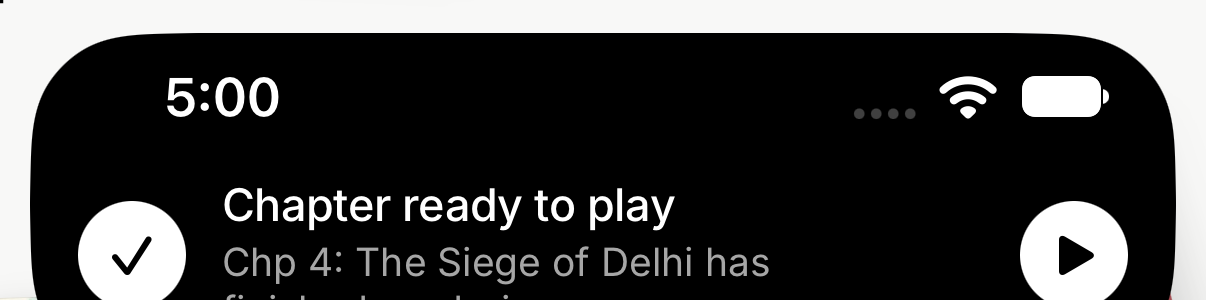
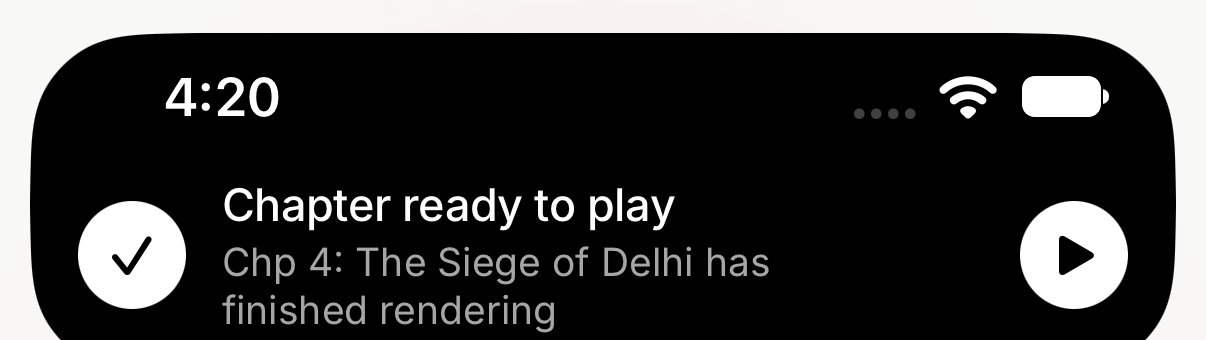
The card on a notched phone waits below the status bar instead of sitting under the clock
The capsule's window ignores the safe area so an island phone's background can sit at 11pt and
merge with the real cutout. The plain card inherited that and landed inside the status bar, with
the clock behind its leading edge and the battery across its words. It now asks UIKit for the
real inset rather than borrowing the island's 59pt, which notched phones do not all share.

diff --git a/App/T2SReader/Design/MockIsland.swift b/App/T2SReader/Design/MockIsland.swift
@@ -1,6 +1,7 @@
 // App/T2SReader/Design/MockIsland.swift
 import SwiftUI
 import T2SApp
+import UIKit
 
 /// A black capsule that begins as the Dynamic Island and grows downward.
 ///
@@ -40,6 +41,30 @@ struct MockIsland: View {
         hasIsland ? Self.statusBarInset - IslandGeometry.cutoutTop : 14
     }
 
+    /// The real safe-area top inset, read from the key window rather than from a `GeometryReader`
+    /// here: this capsule's window ignores the safe area on purpose (`MockIslandWindow.swift`), so
+    /// the island's background can sit above it and merge with the real cutout — and a proxy
+    /// inside a window that ignores it reports the inset it now covers as zero — the same
+    /// measurement `StatusRows` and `PageTopEdge` hit and solve the same way. UIKit's own value is
+    /// untouched by what this window's content ignores: it is a property of the screen, not of
+    /// what is drawn over it, so it is also correct on the notch devices `statusBarInset` above
+    /// was never measured against. `nil` only when there is no key window yet to ask.
+    private var deviceSafeAreaTop: CGFloat? {
+        UIApplication.shared.connectedScenes
+            .compactMap { $0 as? UIWindowScene }
+            .flatMap(\.windows)
+            .first { $0.isKeyWindow }?
+            .safeAreaInsets.top
+    }
+
+    /// Where the whole card — background included — sits on a device with no island: below
+    /// whatever the real safe area is on this phone, plus the card's own margin, rather than
+    /// below a Dynamic Island phone's specific 59 pt. Falls back to `statusBarInset` only if no
+    /// key window can be asked yet, which keeps the card off the status bar rather than under it.
+    private var nonIslandTopPadding: CGFloat {
+        (deviceSafeAreaTop ?? Self.statusBarInset) + 8
+    }
+
     var body: some View {
         content
             .frame(maxWidth: .infinity, alignment: .leading)
@@ -62,7 +87,7 @@ struct MockIsland: View {
             .onGeometryChange(for: CGRect.self) { $0.frame(in: .global) } action: { onCapsuleFrame($0) }
             .onDisappear { onCapsuleFrame(.zero) }
             .padding(.horizontal, hasIsland ? 10 : Spacing.margin)
-            .padding(.top, hasIsland ? IslandGeometry.cutoutTop : 8)
+            .padding(.top, hasIsland ? IslandGeometry.cutoutTop : nonIslandTopPadding)
             .frame(maxHeight: .infinity, alignment: .top)
             .transition(.scale(scale: 0.4, anchor: .top).combined(with: .opacity))
             .accessibilityElement(children: .combine)
